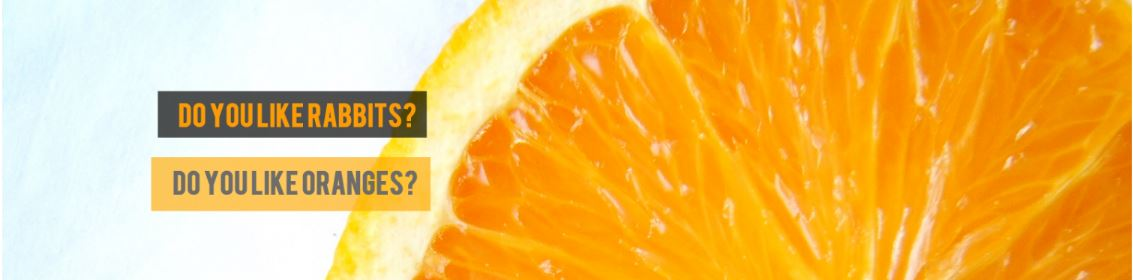
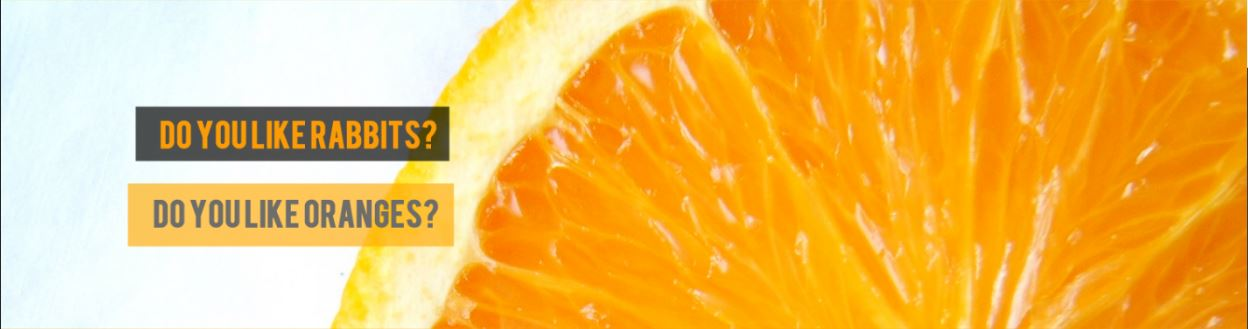
add figcaption

diff --git a/src/index.html b/src/index.html
@@ -7,15 +7,15 @@
 <title>Orange rabbit</title>
 </head>
 
-<body class="container">
-  <header>
-    <img src="./img/logo.JPG" class="logo" alt="logo">
+<body>
+  <header class="container">
+    <img src="./img/logo.JPG" alt="logo">
     <ul class="for_ul">
-      <li class="navigation"><a href="#"><img src="./img/home.png" alt=""></a></li>
-      <li class="navigation"><a href="#"><img src="./img/about.png" alt=""></a></liclass="navigation">
-      <li class="navigation"><a href="#"><img src="./img/work.png" alt=""></a></li>
-      <li class="navigation"><a href="#"><img src="./img/blog.PNG" alt=""></a></li>
-      <li class="navigation"><a href="#"><img src="./img/contact.PNG" alt=""></a></li>
+      <li class="navigation"><a href="#"><img src="./img/home.png" alt=""></a><figcaption class="figcaption">home</figcaption></li>
+      <li class="navigation"><a href="#"><img src="./img/about.png" alt=""></a><figcaption class="figcaption">about</figcaption></li>
+      <li class="navigation"><a href="#"><img src="./img/work.png" alt=""></a><figcaption class="figcaption">work</figcaption></li>
+      <li class="navigation"><a href="#"><img src="./img/blog.PNG" alt=""></a><figcaption class="figcaption">blog</figcaption></li>
+      <li class="navigation"><a href="#"><img src="./img/contact.PNG" alt=""></a><figcaption class="figcaption">contact</figcaption></li>
     </ul>
   </header>
   <div>

diff --git a/src/main.scss b/src/main.scss
@@ -9,25 +9,31 @@
 .navigation{
 	display: inline-block;
 	margin: 0 10px;
+
 }
 .for_ul{
 	float: right;
-	margin-right: 11%;
+}
+.figcaption{
+	padding-left: 6px;
 }
 .for_lorem{
 	display: inline-block;
 	max-width: 20%;
 	vertical-align: top;
 	padding-left: 20px;
-	margin: 10px;
+	margin: 15px;
 }
 .for_href{
 	float: right;
 	margin-right: 15%;
 }
-a:hover{
-	color:#ffa500;
+a{
 	text-decoration: none;
+	color:#ffa500;
+}
+a:hover{
+	text-decoration: underline;
 }
 .name{
 text-decoration: underline;
@@ -57,8 +63,8 @@ font-weight: normal;
 }
 .img_background{
   background-image: url('../img/orange.jpg');
-  width: 100%;
-  height: 280px;
+  width: 1248px;
+  height: 329px;
   border-bottom: 3px solid #ffa500;
   border-top: 3px solid #ffa500;
 }
